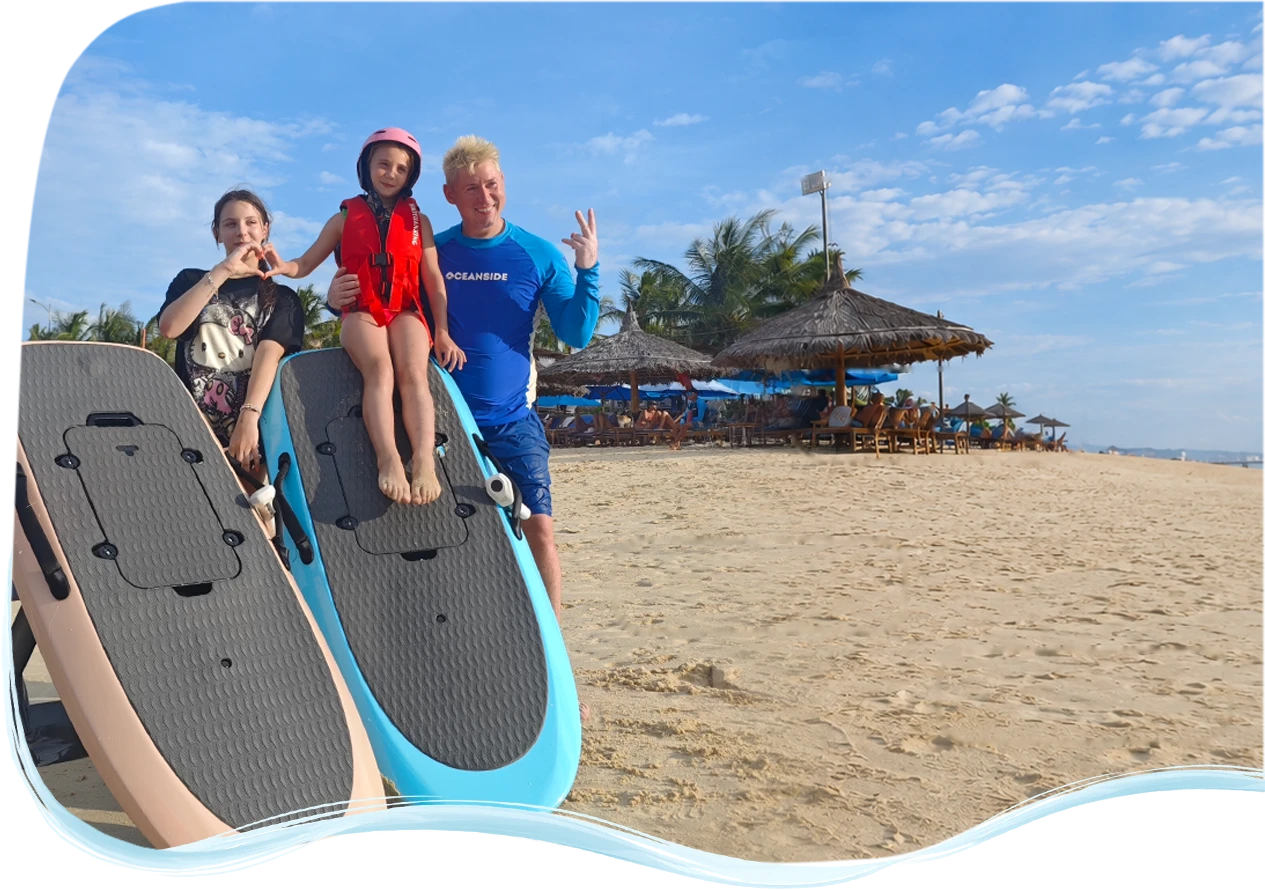
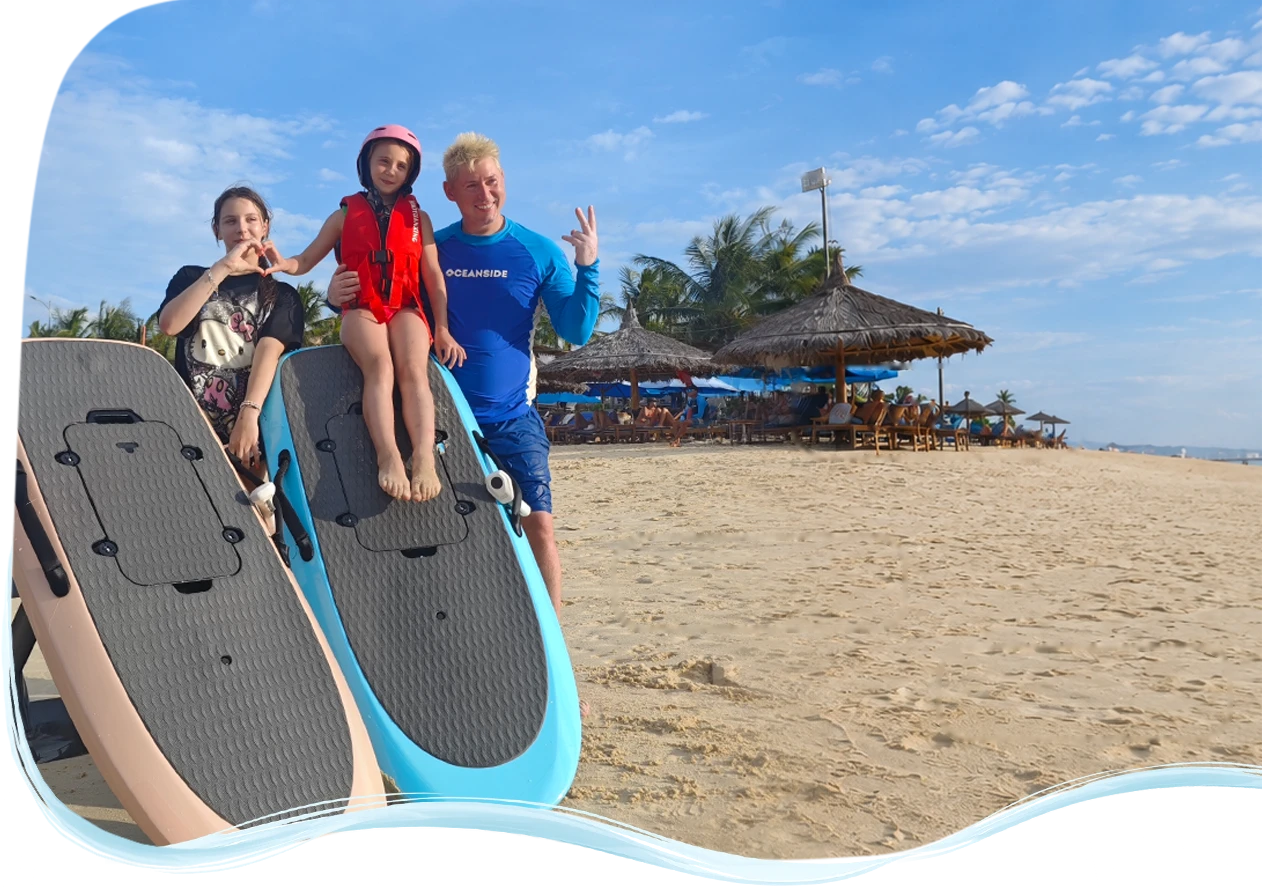
Sit the reviews hero flush under the header and off the edge
The frame was vertically centred, so wherever the text column outgrew the
photo (1280-1440px) it slid down and left up to 31px of white under the
header. Pin it to the top, the way the tandem hero already does.

Along the right edge a pale hairline showed through: the wrapper is a query
container, and Chrome antialiases that layer's boundary, leaving the outer
pixel two thirds white. Bleed the frame 3px past the window and let the
section clip it. The bake script now also trims the soft top and right
edges of the source, which are straight cuts rather than silhouette.

Claude-Session: https://claude.ai/code/session_019SCCseXEznD3D5rwPUr4xV

diff --git a/src/app/[locale]/reviews/page.tsx b/src/app/[locale]/reviews/page.tsx
@@ -57,7 +57,7 @@ const QUOTES = [
 // снаружи его не вычислить: здесь взяты цвета из его же палитры монограмм.
 // Если сверить со скриншотами отзывов — правьте color, больше нигде не всплывёт.
 //
-// cx/cy — ЦЕНТР плашки в процентах от кадра hero.webp (1265×890). Это центры
+// cx/cy — ЦЕНТР плашки в процентах от кадра hero.webp (1262×887). Это центры
 // пяти рамок-плейсхолдеров, нарисованных дизайнером прямо в макете
 // photo_video/отзывы_hero/hero_rewies.png: каждая ровно 293×94 px. Сами рамки
 // из картинки вытравлены скриптом scripts/bake-reviews-hero.mjs — плашки
@@ -67,19 +67,19 @@ const QUOTES = [
 //
 // Порядок — сверху вниз по кадру, как их читают глазами.
 const HERO_CHIPS = [
-  { name: "Polina Shchegoleva", text: "Полетели с первого раза", rating: 5, color: "#1a73e8", cx: 59.25, cy: 14.94 },
-  { name: "Евгений Курьянов", text: "Обязательно повторим!", rating: 5, color: "#1e8e3e", cx: 85.73, cy: 27.42 },
-  { name: "Илья Яковлев", text: "Непередаваемые эмоции!", rating: 5, color: "#9334e6", cx: 74.27, cy: 46.63 },
-  { name: "Юлия", text: "Дочка была в полном восторге", rating: 5, color: "#d93025", cx: 60.04, cy: 65.84 },
-  { name: "Artem S.", text: "Приду второй раз однозначно!", rating: 5, color: "#e8710a", cx: 85.73, cy: 78.20 },
+  { name: "Polina Shchegoleva", text: "Полетели с первого раза", rating: 5, color: "#1a73e8", cx: 59.39, cy: 14.66 },
+  { name: "Евгений Курьянов", text: "Обязательно повторим!", rating: 5, color: "#1e8e3e", cx: 85.94, cy: 27.17 },
+  { name: "Илья Яковлев", text: "Непередаваемые эмоции!", rating: 5, color: "#9334e6", cx: 74.45, cy: 46.45 },
+  { name: "Юлия", text: "Дочка была в полном восторге", rating: 5, color: "#d93025", cx: 60.18, cy: 65.73 },
+  { name: "Artem S.", text: "Приду второй раз однозначно!", rating: 5, color: "#e8710a", cx: 85.94, cy: 78.13 },
 ];
 
 // Размер плашки — плейсхолдер 293×94 плюс 5%, как просил заказчик: так плашка
 // садится на макет с запасом и из-под неё гарантированно ничего не выглядывает.
-// Считано от ширины кадра (1265 px), поэтому обе величины — в cqw: и высота
+// Считано от ширины кадра (1262 px), поэтому обе величины — в cqw: и высота
 // тоже, иначе при смене пропорции файла плашка поедет.
-const CHIP_W = ((293 * 1.05) / 1265) * 100; // 24.32
-const CHIP_H = ((94 * 1.05) / 1265) * 100; // 7.80
+const CHIP_W = ((293 * 1.05) / 1262) * 100; // 24.38
+const CHIP_H = ((94 * 1.05) / 1262) * 100; // 7.82
 
 // Фраза для крупной врезки. Вырезана из отзыва Полины дословно — врезка не
 // пересказывает отзыв, а цитирует его.
@@ -102,7 +102,7 @@ export default function ReviewsPage() {
   return (
     <>
       {/* ── Первый экран ── */}
-      {/* Собран по макету hero_rewies (1265×890 после обрезки прозрачных полей):
+      {/* Собран по макету hero_rewies (1262×887 после обрезки полей и мягких кромок):
           до lg кадр идёт полосой во всю ширину, текст под ним; от lg кадр
           уходит в правый край окна, а текст занимает левую половину — тот же
           приём, что на прайсе и тандеме.
@@ -111,12 +111,16 @@ export default function ReviewsPage() {
           вставать встык под шапку. Фон градиентом в surface-2, чтобы стык с
           бегущей строкой ниже не читался ступенькой.
 
-          Кадр по центру высоты (items-center), а не встык к шапке: текста в
-          левой колонке больше, чем высоты фотографии, и при верхнем
-          выравнивании под кадром зияла пустая полоса в треть экрана.
+          Кадр ПРИЖАТ К ВЕРХУ (items-start), ровно как на тандеме. Стоял
+          items-center — и там, где текст в левой колонке выше фотографии
+          (1280–1440 px), кадр съезжал вниз и между ним и шапкой зияла белая
+          полоса до 31 px. David поймал это на ПК 01.09.2026. Пустая полоса
+          ПОД кадром на этих ширинах — так и задумано, у тандема так же:
+          низ кадра вырезан волной и переходит в фон страницы.
 
           min-h на ПК — ровно высота кадра: 52% ширины окна, делённые на
-          пропорцию файла 1265/890, то есть 36.6vw. Кадр лежит absolute и
+          пропорцию файла 1262/887, то есть 36.6vw (округлено вверх с 36.55 —
+          пусть секция будет на волос выше кадра, а не ниже). Кадр лежит absolute и
           высоту секции не задаёт; её задавал текст, и от 1600 px фотография
           становилась выше текста — overflow-hidden срезал ей и волну снизу, и
           верхнюю плашку с отзывом (мерил 29.08.2026). Меняете долю кадра или
@@ -154,7 +158,15 @@ export default function ReviewsPage() {
             (1 − доля). При 54% они сходились и на 1920 текст уже лез на
             фотографию (мерил 29.08.2026); при 52% зазор держится хоть на 2560.
             Меняете долю — перемеряйте на широких экранах. */}
-        <div className="lg:absolute lg:inset-y-0 lg:right-0 lg:flex lg:w-[52%] lg:items-center">
+        {/* right-[-3px] — кадр НАРОЧНО вылезает на 3 px за правый край окна,
+            их срезает overflow-hidden у секции. Иначе вдоль правой кромки
+            светится бледная ниточка: обёртка ниже объявлена контейнером
+            (container-type), а границу такого слоя Chrome сглаживает, и
+            крайний пиксель выходил белым на две трети (мерил 01.09.2026 —
+            67–80% белого на 1280/1440/1920, после сдвига 0–19%, как у
+            тандема, где container-type нет). Три пикселя фотографии при этом
+            уходят за кромку окна — кадр туда и так уходит по макету. */}
+        <div className="lg:absolute lg:inset-y-0 lg:right-[-3px] lg:flex lg:w-[52%] lg:items-start">
           {/* container-type: плашки с отзывами прибиты к точкам макета и
               меряются в cqw — процентах от ширины ЭТОГО кадра. Без контейнера
               cqw считались бы от окна, и на широких экранах плашки съехали бы
@@ -163,8 +175,8 @@ export default function ReviewsPage() {
             <Image
               src="/media/photo/reviews/hero.webp"
               alt="Семья с электрофойлами на пляже в Нячанге после занятия с FlyGuru"
-              width={1265}
-              height={890}
+              width={1262}
+              height={887}
               priority
               quality={90}
               sizes="(min-width: 1024px) 54vw, 100vw"
